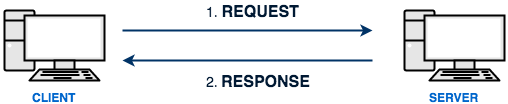
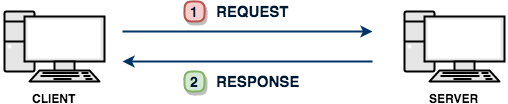
-

diff --git a/Books/LibroLiceo/reti.md b/Books/LibroLiceo/reti.md
@@ -1,6 +1,6 @@
 # Reti di computer
 
-> **Rete di computer:** o rete telematica, è un sistema di comunicazione che permettte l'interconnesione di strutture informatiche distribuite su aree geografiche di qualsiasi ampiezza.
+> **Rete di computer:** in inglese *network (/ˈnɛtˌwɜːk/)*, è un sistema di comunicazione che permettte l'interconnesione di strutture informatiche distribuite su aree geografiche di qualsiasi ampiezza.
 
 
 
@@ -8,25 +8,59 @@
 
 > **Host:** qualsiasi computer o dispositivo informatico connesso ad una rete telematica
 
-Affinchè i computer possano comunicare in rete, è necessario, oltre che siano connessi tra loro, che esistano dei <u>protocolli di comunicazione</u> standard che regolino lo scambio di informazioni.
+Affinchè i computer possano comunicare in rete, è necessario, oltre che siano connessi tra loro, che esistano dei <u>protocolli di comunicazione</u> che regolino lo scambio di informazioni.
 
-> **Protocollo di comunicazione:**in inglese *communication protocol (/kəˌmjuːnɪˈkeɪʃən ˈprəʊtəˌkɒl/)*  insieme di regole che governano la comunicazione tra due host della rete.
+> **Protocollo di comunicazione:**in inglese *communication protocol (/kəˌmjuːnɪˈkeɪʃən ˈprəʊtəˌkɒl/)*  insieme di regole che governano la comunicazione tra gli host della rete.
 
-## Modello client/server
+In base al ruolo che assume nella comunicazione, un host della rete può essere un client o un server:
 
-Il modello di comunicazione più utilizzato in una rete di computer è il modello client/server. Tale modello prevede che nella comunicazione tra due dispositivi uno assuma il ruolo di client (il richiedente) e l'altro il ruolo di server (il servente).
+> **Client:** *(/ˈklaɪənt/)* un host della rete che accede ai servizi o alle risorse di un altro host della rete detto server
+
+> **Server:** *(/ˈsɜːvə/)* un host della rete che fornisce risorse o servizi agli host client che ne fanno richiesta
+
+Quando vengono trasferiti file dal server al client e viceversa parliamo rispettivamente di *download* e *upload*.
+
+> **Download:** *(/ˈdaʊnˌləʊd/)* trasferimento di un file dal server al client
+
+> **Upload:** *(/ʌpˈləʊd/)* trasferimento di un file dal client al server
+
+## Modelli di comunicazione
+
+In una rete di computer, esistono vari modi in cui gli host interagiscono tra di loro scambiandosi dati. I principali modelli di comunciazione solo il modello client/server e il modello peer-to-peer.
+
+### Modello client/server
+
+Il modello di comunicazione più utilizzato in una rete di computer è il modello client/server. Tale modello prevede che nella comunicazione tra due dispositivi un host assuma il ruolo di client (il cliente) ed un altro il ruolo di server (il serviente).
 
 ![reti005](images/reti005.png)
 
-> **Client:** un host della rete che accede ai servizi o alle risorse di un altro host della rete detto server
+Nel modello client/server è <u>sempre</u> il client che inizia la comunicazione inviando una **request** (richiesta) mentre il server può solo rispondere alla richiesta tramite una **response**.
 
-> **Server:** un host della rete che fornisce risorse o servizi ad altri host che ne fanno richiesta
+**N.B.** un host che in una comunicazione assume il ruolo di client, può assumere il ruolo di server in un'altra distinta comunicazione. Nella stessa comunicazione i ruoli però restano <u>fissi</u>.
+
+### Modello peer-to-peer
+
+Nel peer-to-peer (pari a pari) gli host della rete non hanno un ruolo specifico come nel modello client/server. Ogni host è contemporaneamete sia client che server, ed è in grado, quindi, sia di avviare che di rispondere ad una comunicazione.  
+
+![reti006](images/reti006.png)
+
+Un'applicazione del modello peer-to-peer la si trova nei programmi di file-sharing che utilizzano il protocollo Torrent.
 
 ## Tipologie di comunicazione 
 
-- unicast
-- multicast
-- broadcast
+In base al numero di host coinvolti nella comunicazione possiamo distinguere tre diverse tipologie di trasferimento dati:
+
+|Unicast|Multicast|Broadcast|
+| :-----: | :-------: | :-------: |
+| ![reti010](images/reti010.png)<br /><br />Un host invia dati ad un altro host della rete | ![reti010](images/reti011.png)<br />Un host invia dati a due o più host della rete | ![reti010](images/reti012.png)<br />Un host invia dati a tutti gli host della rete |
+
+## Tipologie di reti
+
+A seconda dell'estensione geografica, si distinguono tre diversi tipi di reti: 
+
+- LAN (Local Area Network)
+- MAN (Metropolitan Area Network)
+- WAN (Wide Area Network)
 
 ## Struttura di una rete
 
@@ -37,3 +71,15 @@ Per costruire fisicamente una rete di computer dobbiamo avere a disposizione:
 - un canale di comunicazione che permetta la trasmissione dei dati
 - un software in ogni host che "conosca" i protocolli di comunciazione
 - un dispositivo di rete in grado di gestire il canale di comunicazione
+
+## Canali di comunicazione
+
+Il canale di comunicazione o canale trasmissivo è il mezzo utilizzato per collegare gli host di una rete. Esso può essere di 3 tipi:
+
+- elettrico
+- ottico
+- elettromagnetico
+
+La velocità di trasmissione di un canale di comunicazione viene in genere misurata in b/s (bit al secondo) o sui multipli: Kb/s, Mb/s, Gb/s.
+
+La velocità dichiarata di uno specifico canale (capacità) rappresenta la massima quantità di dati trasportabile. Tuttavia la velocità reale è sempre inferiore alla capacità dichiarata in quanto subentrano vari fattori (ambientali, climatici, umani) che possono creare interferenza nel canale (rumore) e rallentarne la velocità.
